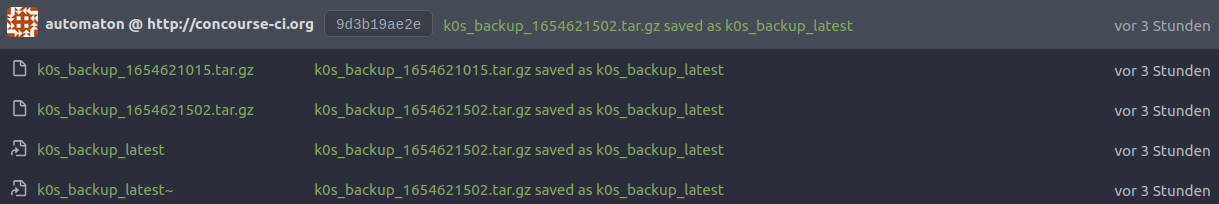
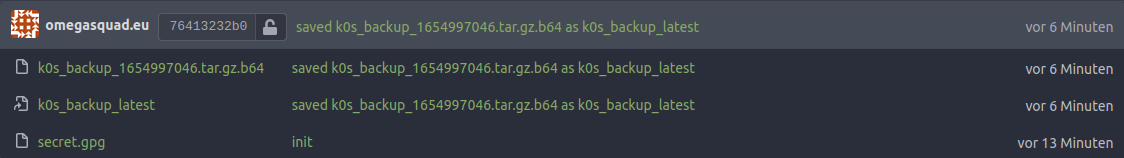
7 backups are unencrypted (#18)
* add gnupg to the flock

* reset to 2 space indentation width

* add coreutils to the Dockerfile
add printFunction, mkpw, prepareGPG, commitSigned
change all functions that called printHeading to printFunction
this changes the default 'GITNAME' to 'http://concourse-ci.org'

* format and drop K0SCTL_CMD_ARGS

* add encryption of backups
and decryption of backups
while making the handler easier to read

* Updated documentation

* hide creation of new git repo

* can't pass this multiline value down, it seems.

* recreate prepareGPG and set ownertrust

* use --decrypt and add signature on creation

* dunno but just encrypting a secret won't succeed

* it is imperative that git's user.email + user.name
are identical to the values specified in the gpg key!

* update documentation on gpg key generation
and parameterization for committing to backup repo.

* neither print KEY nor SSH on env prep

* restore iteration over local archives

* fixed typo wrt pwd

* add more output on what's happening

* need 2 initialize git's user.name in commit-backup

* fix late night typos with copy-past thingies

* k0sctl does not favor stdin/stdout for backups

* really only print a heading before openssl ops

* update documentation and set cipher value

* fix wrong armor flag for openssl

* update wording on security

* update wording for 'install' and 'backu' Jobs

* moved backup password retrieval up to prep

* change wording on secret.gpg

diff --git a/README.md b/README.md
@@ -11,11 +11,25 @@ any other contribution is welcome.
 ## containerimage
 
 The image built with the [Dockerfile][repo-dockerfile] is based on [Alpine Linux
-3.16.0][link-alpine-3.16.0] and the [buildx ci][repo-ci-buildx] workflow has
+3.16.0][link-alpine-release] and the [buildx ci][repo-ci-buildx] workflow has
 been prepared to build it both for `linux/amd64` and `linux/arm64` targets.
 Currently there is a lack in smoke testing during the build and testing
 unfortunately done via the pipeline template. Until this has been corrected it
 still occasionally breaks during tinkering.
+
+## security
+
+Both pipeline and containerimage are being built in my free time and are a fun
+project. In contrary to what the above states it is imperative that you never
+leak any private key data you handle. This product encrypts the files created
+with `k0sctl backup`. This feature cannot be turned off at this point in time.
+
+It is required that you [generate][link-gnupg-keygen], and provide via pipeline
+_vars_, a `cluster.gpg_pair` with the exact same Name and Mail, but no Comment,
+values you're providing to the pipeline as `cluster.name` and `cluster.email`.
+
+These values will be used to both en- and later decrypt the backup _password_ as
+well as sign all _commits_ to the backup git repository during relevant Jobs.
 
 ### inventory
 
@@ -30,10 +44,13 @@ still occasionally breaks during tinkering.
 | [package][link-alpine-packages] | version >= |
 | ------------------------------- | ---------- |
 | bash                            | 5.1.16-r2  |
+| coreutils                       | 9.1-r0     |
 | curl                            | 7.83.1-r1  |
 | git                             | 2.36.1-r0  |
+| gnupg                           | 2.2.35-r3  |
 | grep                            | 2.36.1-r0  |
 | mtr                             | 0.95-r1    |
+| openssl                         | 1.1.1o-r0  |
 
 #### scripts
 
@@ -52,15 +69,15 @@ parameters, listed in the order of appearance:
 | DISABLE_TELEMETRY | can be set via the pipeline's `no_telemetry` flag.                             | false                      |
 | K0SCTL_SSH_KEY    | the contents of the private key to access the controller and worker nodes.     |
 | K0SCTL_SSH_TYPE   | the key's name and type                                                        | id_ed25519                 |
-| K0SCTL_DIR_CFG    | relative path to a git repository holding the `k0sctl` configuration           | config                     |
-| K0SCTL_CFG_PATH   | relative path below `K0SCTL_DIR_CFG` with the `k0sctl` configuration spec      | k0sctl.yaml                |
+| K0SCTL_CFG_PATH   | relative path below `K0SCTL_DIR_CFG` with the `k0sctl` configuration spec      | config/k0sctl.yaml         |
 | K0SCTL_DIR_LOG    | relative path where `k0sctl`s log file will be placed on finishing the script. | auditlog                   |
 | K0SCTL_DIR_BAK    | relative path to place backups into.                                           | backup                     |
 | K0SCTL_DIR_RES    | relative path to place restoring backups from.                                 | restore                    |
+| K0SCTL_GPG_KEY    | a gpg key pair to encrypt values with                                          |                            |
+| K0SCTL_ENC_CIPHER | the cipher for crypto ops on backups                                           | chacha20                   |
 | K0SCTL_PREFIX_BAK | A prefix to recognize `k0sctl`s dated backup archives from.                    | k0s_backup                 |
 | K0SCTL_SUFFIX_LOG | The suffix that will be used to save the final k0scdtl log to.                 | log                        |
 | K0SCTL_LOG_PATH   | It's the default path where `k0sctl` saves it's full log into.                 | ~/.cache/k0sctl/k0sctl.log |
-| K0SCTL_CMD_ARGS   | A list of arguments to any of `k0sctl`'s commands.                             |                            |
 | K0SCTL_SUFFIX_BAK | The suffix of the backup archive.                                              | tar.gz                     |
 
 ## Pipeline
@@ -93,16 +110,20 @@ the files retrieved by `config/*.yaml` glob.
 
 #### init
 
-It initializes the `backup` git repository with an empty commit. An existing
-`backup` branch will be overwritten on subsequent builds.
+It initializes the `backup` git repository with an encrypted `secret.gpg` file
+that contains a password to safely store the backups. An existing `backup`
+branch will be overwritten on subsequent builds.
+
+![the init Job created a branch with an encrypted password][image-job-init]
 
 #### install
 
 This Job calls `k0sctl apply` with configuration from the `config` repository
 under it's default path `k0sctl.yaml` (configurable). If a non-empty
-`k0sctl_backup_latest` file exists in the `backup` repository, it will be passed
-to k0sctl, which will restore the cluster's state if and only if it is a
-[fresh][github-k0sctl-restore.go#149l25] installation.
+`k0sctl_backup_latest` file exists in the `backup` repository, it will be
+decrypted with [openssl enc][link-openssl-enc] handed over to k0sctl, which will
+restore the cluster's state if and only if it is a [new][github-k0sctl-restore]
+installation.
 
 ![k0sctl restored the cluster state][image-job-install]
 
@@ -112,25 +133,30 @@ Destroys the cluster by calling `k0sctl reset`.
 
 #### backup
 
-Calls `k0sctl backup` and saves it's output archive in the `backup` git
-repository.
+Calls `k0sctl backup` and encrypts it's output archive with [openssl
+enc][link-openssl-enc] and the encrypted file will be saved in the `backup` git
+repository. A symlink will be created to easily access it during the restore
+operation.
 
 ![k0sctl backup archives][image-git-backups]
 
 ---
 
 [image-git-backups]: /images/git-backups.png
+[image-job-init]: /images/git-init.png
 [image-job-install]: /images/job-install-restoring.png
 [image-pipeline]: /images/pipeline.png
 [github-k0sctl]: https://github.com/k0sproject/k0sctl
-[github-k0sctl-restore.go#149l25]:
-    https://github.com/k0sproject/k0sctl/pull/149/commits/6e7c262904ed05b7068e818954a5091d25504065#diff-2cad3981690f3fb1f7b9494273cb87a7b751a5f3f884b9ad0e6a119d60f2f1a2R25
+[github-k0sctl-restore]:
+  https://github.com/k0sproject/k0sctl/pull/149/commits/6e7c262904ed05b7068e818954a5091d25504065#diff-2cad3981690f3fb1f7b9494273cb87a7b751a5f3f884b9ad0e6a119d60f2f1a2R25
 [link-concourse]: https://concourse-ci.org/
 [link-k0sproject]: https://k0sproject.io/
-[link-alpine-3.16.0]: https://alpinelinux.org/posts/Alpine-3.16.0-released.html
-[link-alpine-packages]: https://pkgs.alpinelinux.org/packages
-[link-alpine-releases]: https://alpinelinux.org/releases/
+[link-alpine-packages]: https://pkgs.alpinelinux.org/packages?name=&branch=v3.16
+[link-alpine-release]: https://alpinelinux.org/posts/Alpine-3.16.0-released.html
+[link-gnupg-keygen]:
+  https://gnupg.org/documentation/manuals/gnupg/OpenPGP-Key-Management.html#OpenPGP-Key-Management
 [link-markdown]: https://devhints.io/markdown
+[link-openssl-enc]: https://www.openssl.org/docs/man1.1.1/man1/enc.html
 [repo-ci-buildx]: /.github/workflows/buildx-ci.yml
 [repo-dockerfile]: /Dockerfile
 [repo-pipeline]: /ci/pipeline.yml
